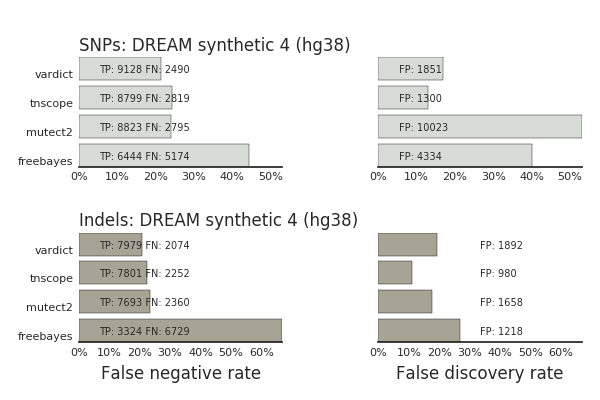
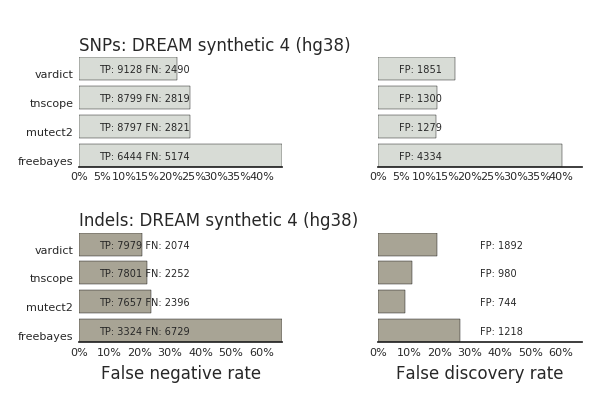
GATK MuTect4 synthetic 4 with filtering
Add recommended MuTect2 post-filtering, which is a separate step
in GATK4. Eliminates false positive problem with SNPs.

diff --git a/gatk4/README.md b/gatk4/README.md
@@ -139,9 +139,6 @@ This sample has 80% cellularity and sublclones at 30% and 15%.
 
 ![dream_syn4](dream_syn4/grading-summary-syn4-38.png)
 
-GATK4's MuTect1 has more SNP false positives relative to VarDict and
-Sentieon's TNscope.
-
 Wall clock timings on AWS m4.4xlarge (16 cores), measured via log timestamps:
 
 - FreeBayes: 8:29
